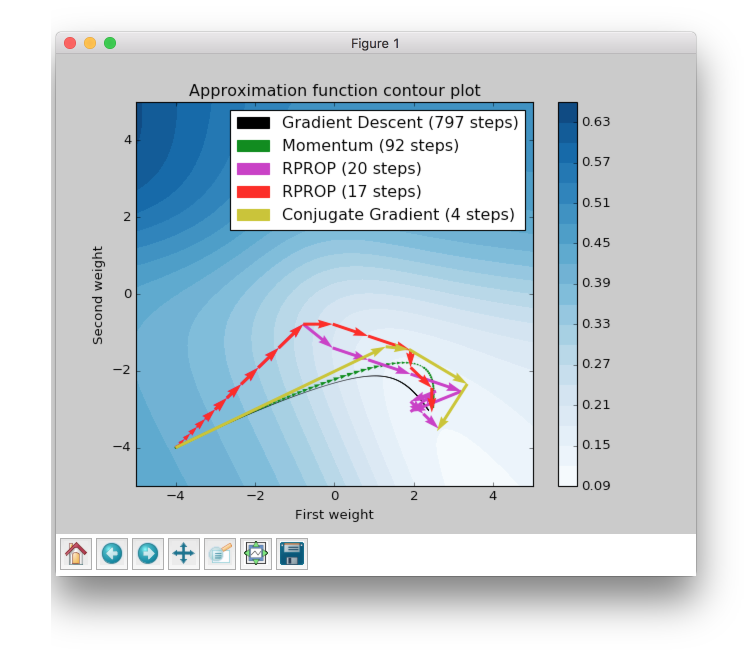
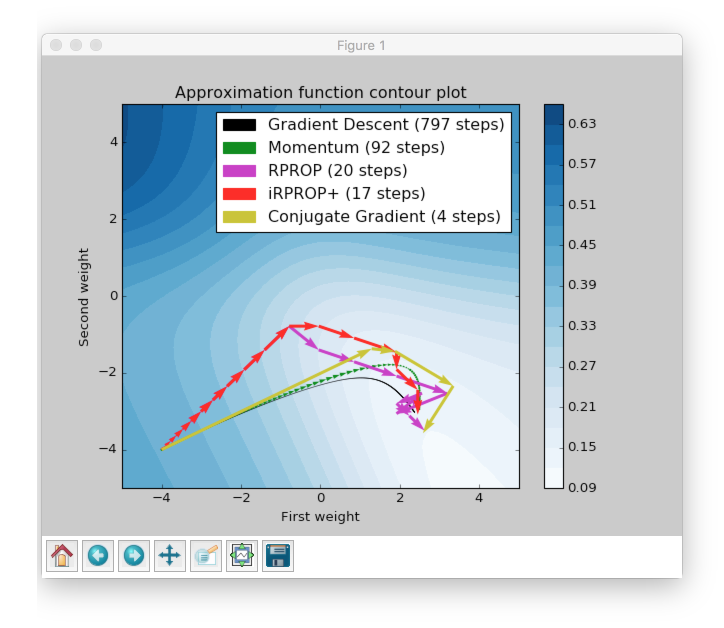
Modified tutorials.

Changed region(s): [[0.0304, 0.0303, 0.942, 0.9379], [0.4862, 0.4236, 0.547, 0.4538], [0.5773, 0.4236, 0.6077, 0.4538]]

diff --git a/neupy/algorithms/gd/hessian.py b/neupy/algorithms/gd/hessian.py
@@ -3,6 +3,7 @@ import theano.typed_list
 import theano.tensor as T
 
 from neupy.core.properties import BoundedProperty
+from neupy.utils import asfloat
 from neupy.algorithms.gd import NoStepSelection
 from neupy.algorithms.utils import (parameters2vector, count_parameters,
                                     iter_parameters, setup_parameter_updates)
@@ -86,6 +87,7 @@ class Hessian(NoStepSelection, GradientDescent):
         n_parameters = count_parameters(self)
         parameters = list(iter_parameters(self))
         param_vector = parameters2vector(self)
+        penalty_const = asfloat(self.penalty_const)
 
         hessian_matrix, full_gradient = find_hessian_and_gradient(
             self.variables.error_func, parameters

diff --git a/examples/gd/gd_algorithms_visualization.py b/examples/gd/gd_algorithms_visualization.py
@@ -127,7 +127,7 @@ algorithms = (
     (algorithms.GradientDescent, 'Gradient Descent', 'k'),
     (momentum_class, 'Momentum', 'g'),
     (algorithms.RPROP, 'RPROP', 'm'),
-    (algorithms.IRPROPPlus, 'RPROP', 'r'),
+    (algorithms.IRPROPPlus, 'iRPROP+', 'r'),
     (cgnet_class, 'Conjugate Gradient', 'y'),
 )
 

diff --git a/site/2015/07/04/visualize_backpropagation_algorithms.rst b/site/2015/07/04/visualize_backpropagation_algorithms.rst
@@ -131,54 +131,36 @@ From the figure above it's clear that weight update magnitude become smaller. Li
 RPROP
 +++++
 
-:network:`Momentum` makes fewer steps for a prediction, but we still can
-find minimum in fewer number of steps.
-Now we are going to run :network:`RPROP` algorithm.
+:network:`Momentum` makes fewer steps for a prediction, but we still can find minimum in fewer number of steps. Now we are going to run :network:`RPROP` algorithm.
 
 .. figure:: images/visualize_gd/rprop-steps.png
     :width: 80%
     :align: center
     :alt: RPROP steps
 
-This improvment looks impressive.
-Now we are able to see steps without zooming.
-We got almost the same value as before using just 20 steps, which is 5 times fewer than :network:`Momentum` and 40 times fewer than :network:`Gradient Descent <GradientDescent>`.
+This improvment looks impressive. Now we are able to see steps without zooming. We got almost the same value as before using just 20 steps, which is 5 times fewer than :network:`Momentum` and 40 times fewer than :network:`Gradient Descent <GradientDescent>`.
 
-Now we are going to figure out what are the main features of :network:`RPROP` just by looking at the plot above.
-:network:`RPROP` has a unique step for each weight.
-There are just two steps for each weight in the input layer for this network.
-:network:`RPROP` will increase the step size if gradient don't change the sign before its value, and it will decrease in a different situation.
-This update rule is not the same as for :network:`Momentum` algorithm.
+Now we are going to figure out what are the main features of :network:`RPROP` just by looking at the plot above. :network:`RPROP` has a unique step for each weight. There are just two steps for each weight in the input layer for this network. :network:`RPROP` will increase the step size if gradient don't change the sign before its value, and it will decrease in a different situation.
 
-.. figure:: images/visualize_gd/rprop-first-6-steps.png
+.. figure:: images/visualize_gd/rprop-first-11-steps.png
     :width: 80%
     :align: center
-    :alt: RPROP first 6 steps
+    :alt: RPROP first 11 steps
 
-From the figure above you can see that first 6 updates have the same direction, so both steps are increase after each iteration.
-For the first epoch steps are equal to the same value which we set up at network initialization step.
-On the every next iterations they have been increased by the same factor, so after six iteration they became bigger, but they are still equal because they were getting bigger by the same factor.
+From the figure above you can see that first 11 updates have the same direction, so both steps are increase after each iteration. For the first epoch steps are equal to the same value which we set up at network initialization step. On the every next iterations they have been increased by the same factor, so after six iteration they became bigger, but they are still equal because they were getting bigger by the same factor.
 
-Now let's check the next epochs from the figure below.
-On the 7th epoch gradient changed the direction, but steps are still the same.
-But we can clearly see that gradient changed the sign for the second weight.
-:network:`RPROP` updated the step after weight had updated, so the step for the second weight must be fewer for the 8th epoch.
+Now let's check the next epochs from the figure below. On the 12th epoch gradient changed the direction, but steps are still the same. But we can clearly see that gradient changed the sign for the second weight. :network:`RPROP` updated the step after weight had updated, so the step for the second weight must be fewer for the 13th epoch.
 
-.. figure:: images/visualize_gd/rprop-6th-to-9th-epochs.png
+.. figure:: images/visualize_gd/rprop-11th-to-14th-epochs.png
     :width: 80%
     :align: center
-    :alt: RPROP from 6th to 9th steps
+    :alt: RPROP from 11th to 14th steps
 
-Now let's look at the 8th epoch.
-It shows us how gradient sign difference on the 7th epoch updated steps.
-Now the steps are not equal.
-From the picture above we can see that update on the second weight (y axis) is fewer than on the first weight (x axis).
+Now let's look at the 13th epoch. It shows us how gradient sign difference on the 12th epoch updated steps. Now the steps are not equal. From the picture above we can see that update on the second weight (y axis) is smaler than on the first weight (x axis).
 
-On the 8th epoch gradient on y axis changed the sign again.
-Network decreased by constant factor and update for the second weight on the 9th epoch would be fewer than on the 8th.
+On the 16th epoch gradient on y axis changed the sign again. Network decreased by constant factor and update for the second weight on the 17th epoch would be fewer than on the 16th.
 
-To train your intuition you can check the other epochs updates and try to figure out
-how steps are dependent on the direction.
+To train your intuition you can check the other epochs updates and try to figure out how steps are dependent on the direction.
 
 iRPROP+
 +++++++
@@ -191,33 +173,20 @@ iRPROP+
     :alt: iRPROP+ steps
 
 As in :network:`RPROP` algorithm :network:`iRPROP+ <IRPROPPlus>` make exacly the
-same first 6 steps.
+same first 11 steps.
 
-Now let's look at the 7th step in the figure below.
+Now let's look at the 12th step in the figure below.
 
-.. figure:: images/visualize_gd/irprop-plus-6th-to-12th-epochs.png
+.. figure:: images/visualize_gd/irprop-plus-second-part.png
     :width: 80%
     :align: center
-    :alt: iRPROP+ from 6th to 12th epoch updates.
+    :alt: iRPROP+ second part
 
-Second weight (on the y axis) didn't change the value.
-On the same epoch :network:`RPROP` changed the gradient comparing to the previous
-epoch and just decreased step value after weight update.
-Instead, :network:`iRPROP+ <IRPROPPlus>` just disabled weight update for current
-epoch (set it up to `0`).
-And of course it also decreased the step for the second weight.
-Also you can find that vector for the 7th epoch that looks smaller than for the :network:`RPROP` algorithm, because we ignored the second weight update.
-If we check the x axis update size we will find that it has the same value
-as in :network:`RPROP` algorithm.
+Second weight (on the y axis) didn't change the value. On the same epoch :network:`RPROP` changed the gradient comparing to the previous epoch and just decreased step value after weight update. Instead, :network:`iRPROP+ <IRPROPPlus>` disabled weight update for current epoch (set it up to `0`). And of course it also decreased the step for the second weight. Also you can find that vector for the 12th epoch that looks fewer than for the :network:`RPROP` algorithm, because we ignored the second weight update. If we check the x axis update size we will find that it has the same value as in :network:`RPROP` algorithm.
 
-On 8th epoch network included again second weight into the update process, because
-compared to the previous epoch gradient didn't change its sign.
+On 13th epoch network included again second weight into the update process, because compared to the previous epoch gradient didn't change its sign.
 
-Next steps are doing the same job, but 11th epoch differs from others.
-There are a few updates which are related specifically to :network:`iRPROP+ <IRPROPPlus>`, but the most important we have not seen before.
-After weight update on the 11th epoch network error increased, so our update made our prediction worse.
-Now on the 12th epoch network tried to rollback vector update.
-It decreased steps on the 11th epoch and weight update didn't go to the same point after the rollback procedure, it just took opposite direction with a smaller step.
+Next steps are doing the same job, but 15th epoch differs from others. There are a few updates which are related specifically to :network:`iRPROP+ <IRPROPPlus>`, but the most important we have not seen before. After weight update on the 15th epoch network error increased, so our update made our prediction worse. Now on the 16th epoch network tried to rollback vector update. It decreased steps on the 15th epoch and weight update didn't go to the same point after the rollback procedure, it just took opposite direction with a smaller step.
 
 Conjugate Gradient and Golden Search
 ++++++++++++++++++++++++++++++++++++
@@ -241,16 +210,7 @@ Of course it's not a great assumption.
 Golden Search is just trying to figure out the most perfect step size by using a simple search.
 But it doing a greate job.
 
-Finally network made 5 steps, but in plot we can clearly see just 4 of them.
-The reason is that the update for the second epoch was really small compared to others.
-We can zoom the plot and find this tiny step update.
-
-.. figure:: images/visualize_gd/conj-grad-small-step.png
-    :width: 80%
-    :align: center
-    :alt: Conjugate Gradient with Golden Search small second step
-
-If we add the same :network:`Golden Search <LinearSearch>` algorithm to the classic Gradient Descent we will get to the minimum into a few steps as well.
+Finally network made 4 steps. If we add the same :network:`Golden Search <LinearSearch>` algorithm to the classic Gradient Descent we will get to the minimum into a few steps as well.
 
 Bring them all together
 -----------------------
